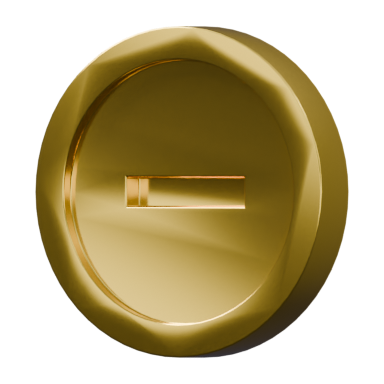
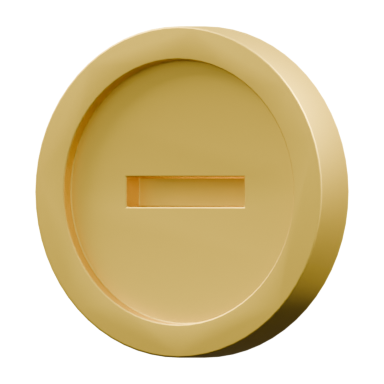
Take the chip coin's satin finish from the owner's edit
Fully metallic and much rougher than the board's coins - 0.54 against
0.13. A mirror finish is right on a board item, where the reflection is
most of what says gold; on a 17px mark it only collects bright and dark
blotches off the studio and the shape stops reading. Satin holds the
value even across the face.

Read off the scene after they adjusted it, and baked in here so the
script reproduces the exported PNG rather than overwriting it on the next
run.

diff --git a/tools/blender/render_items.py b/tools/blender/render_items.py
@@ -1846,8 +1846,14 @@ def build_chip_coin():
     material = tier_material("credit-mark", CURRENCY_HEX["currency-credit"][1],
                              measured, max_gain=1.45)
     shader = _shader(material)
-    shader.inputs["Metallic"].default_value = 0.94
-    shader.inputs["Roughness"].default_value = 0.13
+    # The owner's values, taken off the scene after they adjusted it, not
+    # mine. Fully metallic and MUCH rougher than the board's coins - 0.54
+    # against 0.13. A mirror finish is right on a board item, where the
+    # reflection is most of what says gold; on a 17px mark it just collects
+    # bright and dark blotches from the studio and the shape stops reading.
+    # Satin keeps the value even across the face.
+    shader.inputs["Metallic"].default_value = 1.0
+    shader.inputs["Roughness"].default_value = 0.541
     finish(body, "credit-mark", material, bevel=0.0015,
            smooth_angle=math.radians(12))
     return {1: body}
